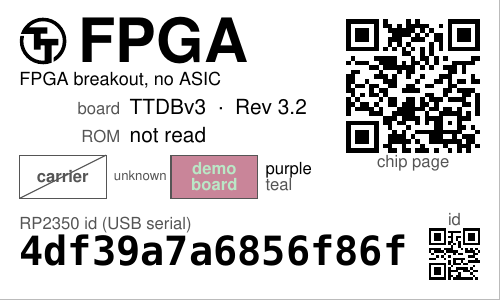
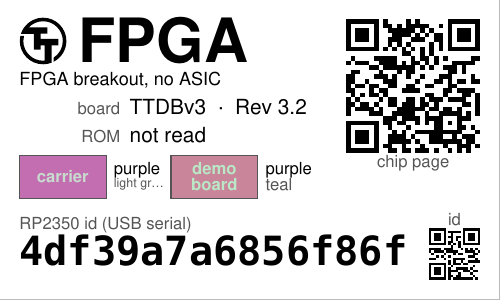
labels: colour the FPGA breakout's carrier from the sheet
The carrier swatch on an FPGA board was drawn struck through as unknown
while the spreadsheet had its colours all along: the asics sheet carries
a FabricFox row, purple #c36eb1 on light green #c7dbce, with an IC Type
of "FPGA (iCE40UP5K)".

It was missed for the same reason the demo board was, one commit ago:
the lookup could only ask by shuttle, and an FPGA board has no shuttle
to ask with -- its ROM carries the literal "FPGA", forced in config.ini.
So the carrier is now found by what it is instead, the one row the sheet
marks as an FPGA rather than a packaged die. Two such rows would be
ambiguous, and that returns nothing rather than guessing which breakout
is on the board.

TTIHP25a's carrier stays unknown, which is the truth and not a lookup
failing: the sheet has the ttihp25a row and its colour cells are empty.

Changed region(s): [[0.03, 0.51, 0.33, 0.66]]

diff --git a/src/rpi_hwid/tt_boards.py b/src/rpi_hwid/tt_boards.py
@@ -73,7 +73,22 @@ def demoboard_revision(detected: str | None) -> str | None:
     return "v" + m.group(1).strip().lstrip("vV") if m else None
 
 
-def shuttle_boards(shuttle: str | None, demoboard: str | None = None) -> dict[str, Row | None]:
+@lru_cache(maxsize=1)
+def _fpga_carrier() -> Row | None:
+    """The sheet's row for the FPGA breakout that stands in for an ASIC.
+
+    An FPGA board has no shuttle to look up -- its ROM carries the literal
+    "FPGA", forced in config.ini -- so it is found by what it is instead:
+    the one row the sheet marks as an FPGA rather than a packaged die. If
+    the sheet ever carries two, that is ambiguous, and nothing is better
+    than a guess at which breakout is on the board."""
+    rows = [dict(row, id=name) for name, row in sorted(load().get("asics", {}).items())
+            if (row.get("ic_type") or "").strip().upper().startswith("FPGA")]
+    return rows[0] if len(rows) == 1 else None
+
+
+def shuttle_boards(shuttle: str | None, demoboard: str | None = None,
+                   chip: str | None = None) -> dict[str, Row | None]:
     """What the sheet knows about `shuttle`'s two boards, as
     ``{"chip": row or None, "demoboard": row or None}``. Both are None for a
     shuttle the sheet does not carry, so a caller can ask without a special
@@ -83,12 +98,18 @@ def shuttle_boards(shuttle: str | None, demoboard: str | None = None) -> dict[st
     board when the shuttle cannot: an FPGA breakout has no shuttle at all,
     and a shuttle the sheet has not listed under "Used by" yet (ttihp25a)
     still sits on a board the sheet does know. The board says which board it
-    is, so believe it."""
+    is, so believe it.
+
+    `chip` is "fpga" for a board whose chip is an FPGA standing in for an
+    ASIC, and finds the carrier the same way: not by a shuttle it does not
+    have, but by being the FPGA."""
     key = "".join((shuttle or "").split()).lower()
     found: dict[str, Row | None] = {
         "chip": load().get("asics", {}).get(key),
         "demoboard": _demoboard_by_shuttle().get(key),
     }
+    if not found["chip"] and chip == "fpga":
+        found["chip"] = _fpga_carrier()
     if not found["demoboard"]:
         revision = demoboard_revision(demoboard)
         if revision:
@@ -97,14 +118,16 @@ def shuttle_boards(shuttle: str | None, demoboard: str | None = None) -> dict[st
 
 
 def colours(shuttle: str | None, palette: dict[str, str],
-            demoboard: str | None = None) -> dict[str, str | None]:
+            demoboard: str | None = None,
+            chip: str | None = None) -> dict[str, str | None]:
     """The four colours a Tiny Tapeout label paints, as hex or None:
     ``chip``/``chip_silk`` for the carrier and ``demoboard``/
     ``demoboard_silk`` for the board under it, each with the sheet's name
     beside it. `palette` is the name -> hex fallback for a colour the sheet
     names but has no hex for. `demoboard` is the board read off the REPL, for
-    the boards whose shuttle does not find them."""
-    found = shuttle_boards(shuttle, demoboard)
+    the boards whose shuttle does not find them, and `chip` is "fpga" for a
+    breakout standing in for an ASIC."""
+    found = shuttle_boards(shuttle, demoboard, chip)
     out: dict[str, str | None] = {}
     for role, row in (("chip", found["chip"]), ("demoboard", found["demoboard"])):
         for key, suffix in (("colour", ""), ("silk", "_silk")):

diff --git a/tests/test_labels.py b/tests/test_labels.py
@@ -92,13 +92,15 @@ def test_tinytapeout_records(docs):
     assert (ihp.demoboard_colour, ihp.demoboard_silk) == ("#c98599", "#bae7c6")
     assert (ihp.demoboard_colour_name, ihp.demoboard_silk_name) == ("purple", "teal")
 
-    # The FPGA breakout has no shuttle at all, so nothing about the chip is
-    # known -- but it is on that same DB ETR v3.2, and those colours are.
+    # The FPGA breakout has no shuttle at all, so neither of its boards can
+    # be found by one: the demo board is found by its revision, and the
+    # carrier by being the sheet's one FPGA rather than a packaged die.
     assert breakout.headline == "FPGA"
     assert breakout.subtitle == "FPGA breakout, no ASIC"
     assert breakout.demoboard_text == "TTDBv3  ·  Rev 3.2"
     assert breakout.usb_serial == "4df39a7a6856f86f"
-    assert breakout.chip_colour is None
+    assert (breakout.chip_colour, breakout.chip_silk) == ("#c36eb1", "#c7dbce")
+    assert (breakout.chip_colour_name, breakout.chip_silk_name) == ("purple", "light green")
     assert (breakout.demoboard_colour, breakout.demoboard_silk) == ("#c98599", "#bae7c6")
 
 

diff --git a/src/rpi_hwid/labels.py b/src/rpi_hwid/labels.py
@@ -920,11 +920,11 @@ def tinytapeout_records(docs):
             # shuttles, FabricFox), and the real hex of each. That table
             # stays as the fallback, and its COLOURS as the palette for a
             # colour the sheet names but has no hex for.
-            # The demo board is named as well as the shuttle, because the
-            # shuttle does not always find it: an FPGA breakout has no
-            # shuttle at all, and ttihp25a sits on a board the sheet knows
-            # but has not listed it under.
-            sheet = tt_boards.colours(b.shuttle, tt_data.COLOURS, b.demoboard)
+            # The demo board and the chip are named as well as the shuttle,
+            # because the shuttle does not always find them: an FPGA
+            # breakout has no shuttle at all, and ttihp25a sits on a board
+            # the sheet knows but has not listed it under.
+            sheet = tt_boards.colours(b.shuttle, tt_data.COLOURS, b.demoboard, b.chip)
             if b.chip == "fpga":
                 headline, parts = "FPGA", ["FPGA breakout, no ASIC"]
             elif b.shuttle:

diff --git a/docs/LABELS.md b/docs/LABELS.md
@@ -142,12 +142,17 @@ its USB serial — runs along the foot with a small QR of its own.
 <img src="https://raw.githubusercontent.com/mithro/rpi-hwid/main/docs/examples/tinytapeout-fpga.png" alt="An FPGA breakout standing in for the ASIC on a DBv3 demo board" width="32%">
 </p>
 
-A board with no ASIC on it says so: the FPGA breakout has no shuttle to name, so
-the chip's swatches and its ROM stay empty and the QR falls back to the chips
-index. Its demo board is still coloured, because the board names its own revision
-over the REPL and the spreadsheet has that revision — which is also how the
-TTIHP25a above gets its colours, from a board the sheet has not listed that
-shuttle under.
+A board with no ASIC on it says so: the FPGA breakout's ROM has no shuttle to
+name — `config.ini` forces the string `FPGA` — so the ROM line stays empty and
+the QR falls back to the chips index.
+
+Both its boards are still coloured, because neither needs the shuttle to be
+found. The demo board names its own revision over the REPL and the sheet has
+that revision, which is how the TTIHP25a above is coloured too, from a board the
+sheet has not listed that shuttle under. The carrier is the sheet's one row for
+an FPGA rather than a packaged die (FabricFox, an iCE40UP5K). TTIHP25a's carrier
+stays `unknown` for the honest reason: the sheet has the row and its colours are
+blank.
 
 ## USB network adapters
 
